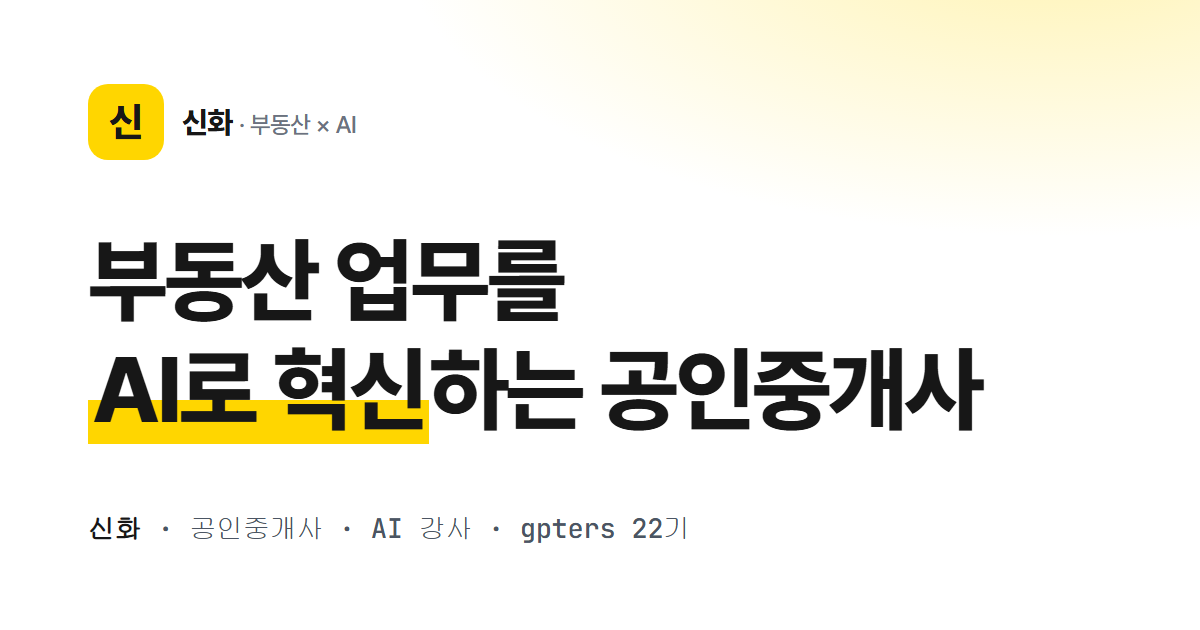
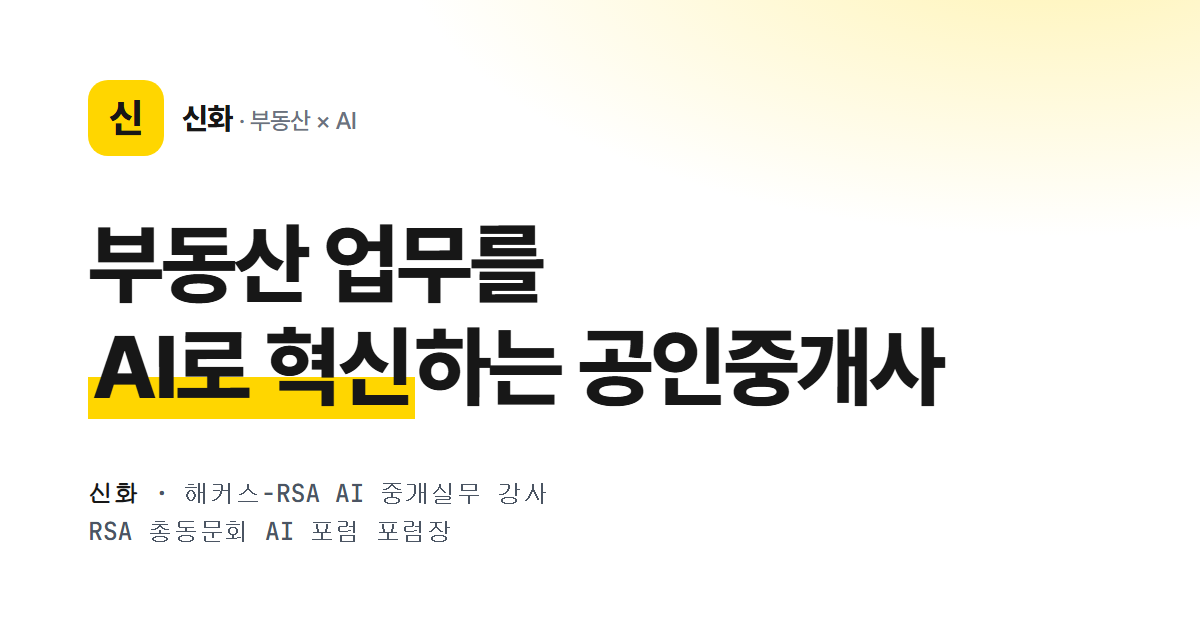
feat: 직함 업데이트 (gpters -> 해커스-RSA AI 중개실무 강사 / RSA 총동문회 AI 포럼 포럼장)

diff --git a/index.html b/index.html
@@ -6,14 +6,14 @@
 
   <!-- 기본 SEO -->
   <title>신화 · 부동산 × AI | 공인중개사 · AI 강사 포트폴리오</title>
-  <meta name="description" content="부동산 업무를 AI로 혁신하는 공인중개사이자 AI 강사, 신화의 포트폴리오. 부동산 아침 브리핑 크롤러, Claude Cowork 가이드, 중개보수 요율 계산기 프로젝트와 공인중개사 AI 강의·코칭을 소개합니다." />
+  <meta name="description" content="부동산 업무를 AI로 혁신하는 공인중개사이자 해커스-RSA AI 중개실무 강사·RSA 총동문회 AI 포럼 포럼장, 신화의 포트폴리오. 부동산 아침 브리핑 크롤러, Claude Cowork 가이드, 중개보수 요율 계산기 프로젝트와 공인중개사 AI 강의·코칭을 소개합니다." />
   <meta name="author" content="신화" />
   <meta name="theme-color" content="#FFFFFF" />
 
   <!-- Open Graph (SNS 공유 미리보기) -->
   <meta property="og:type" content="website" />
   <meta property="og:title" content="신화 · 부동산 × AI 포트폴리오" />
-  <meta property="og:description" content="부동산 업무를 AI로 혁신하는 공인중개사 · AI 강사. 프로젝트 3건과 강의·코칭 안내." />
+  <meta property="og:description" content="부동산 업무를 AI로 혁신하는 공인중개사 · 해커스-RSA AI 중개실무 강사 · RSA 총동문회 AI 포럼 포럼장. 프로젝트와 강의·코칭 안내." />
   <meta property="og:image" content="assets/og-image.png" />
   <meta property="og:image:width" content="1200" />
   <meta property="og:image:height" content="630" />
@@ -105,7 +105,8 @@
         </div>
         <ul class="hero-stats reveal" aria-label="핵심 요약">
           <li><strong>3+</strong><span>실전 프로젝트</span></li>
-          <li><strong>gpters 22기</strong><span>AI 강사</span></li>
+          <li><strong>해커스·RSA</strong><span>AI 중개실무 강사</span></li>
+          <li><strong>RSA 총동문회</strong><span>AI 포럼 포럼장</span></li>
           <li><strong>1:1</strong><span>코칭 운영</span></li>
         </ul>
       </div>
@@ -130,7 +131,8 @@
               그 결과를 <strong>실제로 동작하는 도구</strong>로 만들고
               (뉴스·실거래가 자동 수집기, 중개보수 계산기, AI 입문 가이드),
               같은 고민을 하는 공인중개사들에게 <strong>강의와 1:1 코칭</strong>으로
-              나누고 있습니다. <em>gpters 22기</em> 강사로도 활동 중입니다.
+              나누고 있습니다. <em>해커스-RSA AI 중개실무 강사</em>이자
+              <em>RSA 총동문회 AI 포럼 포럼장</em>으로 활동하고 있습니다.
             </p>
             <p class="about-quote">
               “어려운 IT 용어 없이, 내 사무소 업무에 AI를 끼우는 가장 쉬운 방법.”

diff --git a/js/projects.js b/js/projects.js
@@ -36,9 +36,15 @@ const SITE = {
     },
     {
       icon: "🎓",
-      label: "gpters",
-      value: "gpters 22기 AI 강사",
-      href: "", // 👈 gpters 프로필/소개 링크가 있으면 입력
+      label: "강사",
+      value: "해커스-RSA AI 중개실무 강사",
+      href: "",
+    },
+    {
+      icon: "🏛",
+      label: "포럼",
+      value: "RSA 총동문회 AI 포럼 포럼장",
+      href: "",
     },
     {
       icon: "🐙",
@@ -73,7 +79,7 @@ const PROJECTS = [
   {
     emoji: "⚡",
     title: "공인중개사 5분 입문 — Claude Cowork 가이드",
-    period: "HTML · Tailwind · gpters 22기",
+    period: "HTML · Tailwind · 강의 자료",
     desc: "공인중개사가 5분 안에 AI(Claude Cowork)를 따라 할 수 있는 1페이지 인터랙티브 가이드. 매물 분석·광고·카톡 응대·보고서 4가지 진입점과 폰↔데스크탑 Dispatch 시연, 라이트/다크 모드를 담았습니다.",
     tags: ["HTML", "CSS", "JavaScript", "Tailwind", "반응형", "라이트/다크"],
     github: "https://github.com/sachol/cityuncle-cowork-intro-dashboard",
